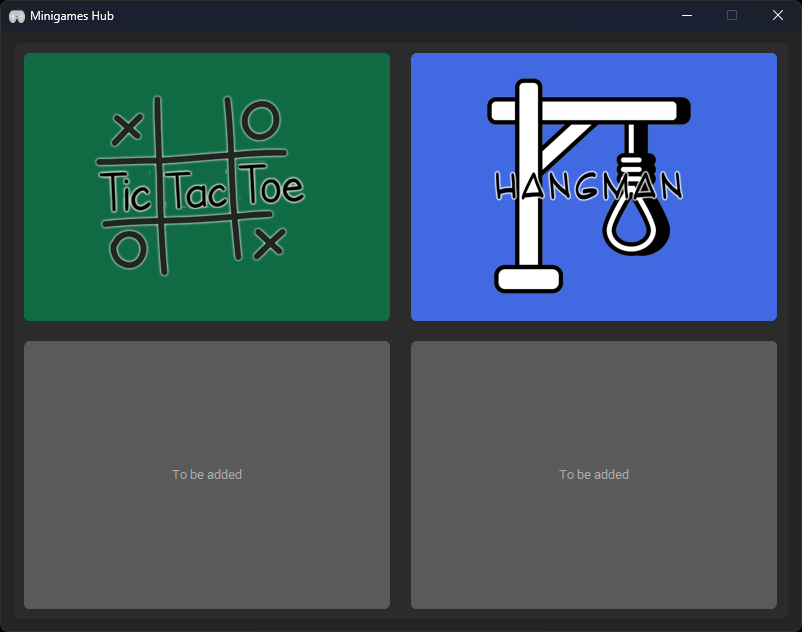
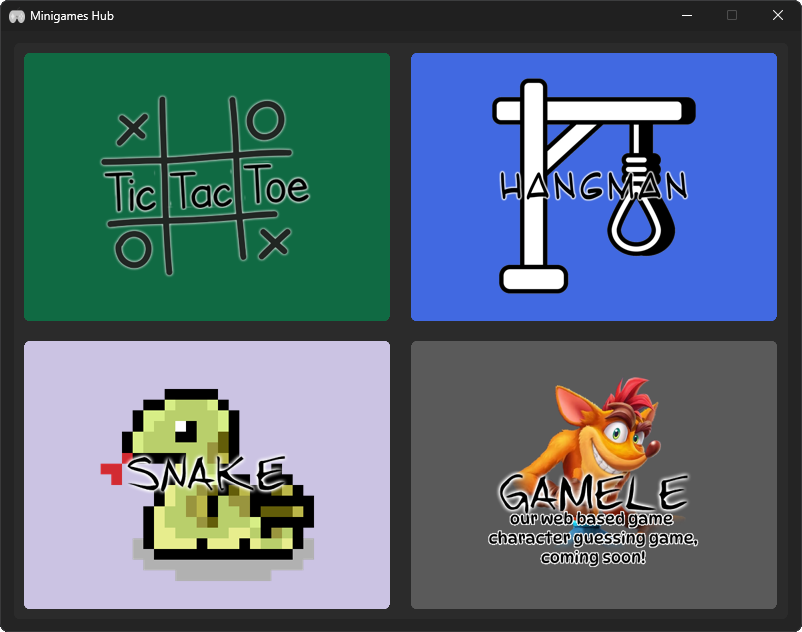
Added gamele preview

diff --git a/snake.py b/snake.py
@@ -1,14 +1,13 @@
 """
 program: snake.py
 author: Stanislav Birca, Kameron Bains
-
 this python file acts as the interface
 for the snake minigame for our
 python minigame hub.
 """
 
 # ! Warning: 50% of the comments to this code are generated by GitHub Copilot.
-# ! Warning: line 115 is hardcoded, needs improvement, 185 and 240 are hardcoded, not truly centered
+# ! Warning: line 115 is hardcoded, needs improvement, not truly centered
 # ! Warning: this is the best implementation i could do for now, it is not perfect, but it works. Needs input disabled for a calculated amount of time after keypress, if the user spams keypresses, it causes game over screen and breaks the game.
 
 def snake():
@@ -115,7 +114,7 @@ def snake():
     #------------------Game Over / While True over-------------------
     screen.fill((0,0,0,0))                                                                          # Sets the screen to black (darksouls effect :D)
     score_text = font.render('YOU DIED! Your score was: {}'.format(score), True, (139, 0, 0))       # Tells user their score in red rgb text
-    screen.blit(score_text, (185,240))                                                              # Blits the score text to the screen, NEEDS improvement, 185 and 240 are hardcoded, not truly centered               
+    screen.blit(score_text, (20,20))                                                                # Blits the score text to the screen, NEEDS improvement, not truly centered               
     pygame.display.update()                                                                         # Updates the display with new values 
     onGameOver.play()                                                                               # Plays the game over sound      
     pygame.time.delay(5000)                                                                         # Delays the game over screen for 5 seconds          

diff --git a/ticTacToe.py b/ticTacToe.py
@@ -1,7 +1,6 @@
 """
 program: ticTacToe.py
 author: Stanislav Birca, Kameron Bains
-
 this python file acts as the interface
 for the ticTacToe minigame for our
 python minigame hub.

diff --git a/README.md b/README.md
@@ -1,15 +1,26 @@
 # Minigames Hub
 
-This is a minigames hub made with python and the customtkinter module. Currently, TicTacToe is in development and Hangman is completed. This project is a collaboration with @kambains226, and we are planning to add two more games, Snake and Pong.
+This is a minigames hub made with python and the customtkinter module, featuring popular games such as TicTacToe, Hangman, Snake and Gamele. We are hoping to improve this project massively over time and soon introducing a completely new game, Gamele, guess the video game character, styled similarly to games such as Wordle.
 
 # Games and Features
 TicTacToe:
-  - Choose your difficulty (Begginer, Intermediate, Impossible)
-  - Choose who moves first (Me, The AI, Random)   
+  - 2 player mode, player one is X and player two is O
+  - AI with difficulty choosing *to be implemented*
 
 Hangman:
   - Restart or Quit if you lose
-  - Hints *(to be implemented)*   
+  - Hints *to be implemented*
+
+Snake:
+  - Great sound effects for feedback
+  - Increasing difficulty as game progresses
+
+Gamele:
+  - Guess the video game character
+  - Styled similarly to games such as Wordle
+  - Based on web technologies
+  - Over 500 different characters, including obscure and well popular ones
+  - *COMING SOON*
 
 Other:
   - Stylish icons
@@ -28,3 +39,9 @@ Other:
 
 #### Hangman
 ![Hangman Screenshot](Screenshots/hangman.png)
+
+#### Snake
+![Snake Screenshot](Screenshots/snake.png)
+
+#### Gamele
+![Gamele Screenshot](Screenshots/gamele.png)
